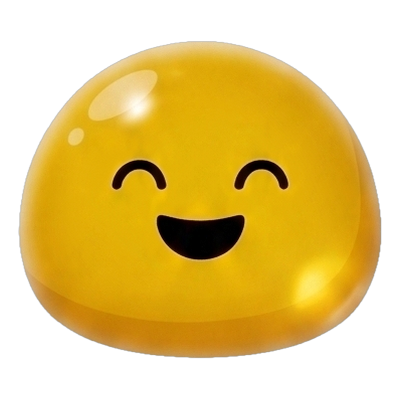
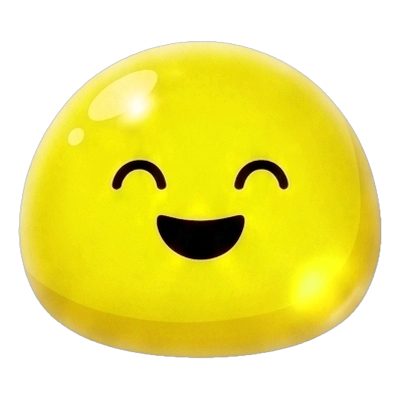
feat(discovery): 기분 자판기 5기준 슬롯 + 영혼의 단짝 + 좋았어요 옐로우골드 + 의자 아이콘
- 기분 자판기: [분석 기준]+[나의 기록]=[기분] 슬롯으로 개편. 버튼으로 5기준
  (요일·날씨·수면·태그·활동)을 순서대로 돌려보고, 없으면 '특별한 발견 없음' 표기.
  수면 슬롯 아이콘은 다이어리 수면 아이콘, 결과는 말랑이 얼굴로 표시
- 이번 달 기록에 '영혼의 단짝' 카드 추가: 가장 자주 함께 찍힌 태그 두 개를 찰떡궁합으로 연출
- '좋았어요' 말랑이 색상 골드 → 옐로우 골드로 리컬러(이미지 + 눈 깜빡 커버색)
- 말랑 다이어리 '오래 앉음' 아이콘을 또렷한 의자 모양으로 수정

diff --git a/src/components/MallangDiscoveryReport.jsx b/src/components/MallangDiscoveryReport.jsx
@@ -341,6 +341,7 @@ export default function MallangDiscoveryReport({ onClose, bmtiCode, userData }) 
                 return <SectionCard key={s.id} section={s} gender={userData?.kakao_gender || userData?.kakaoGender} entries={entries} topMood={topMood} moments={s.id === "sore_map" ? find("sore_moments")?.data : null} />;
               });
             })()}
+            <SoulmateCard entries={entries} />
           </div>
         ) : (
           <DiscoveryInsights report={report} entries={entries} userData={userData} nickname={userData?.nickname} bmtiCode={bmtiCode} />
@@ -1025,6 +1026,40 @@ function ActivityTrackCard({ topMood, move, rest, over }) {
   );
 }
 
+// ── 영혼의 단짝: 이번 달 가장 자주 함께 찍힌 태그 두 개(찰떡궁합) ──
+const SOULMATE_WIT = { "스트레스|카페인": "스트레스받을 때마다 커피를 찾으셨군요 🧐", "야식·과식|음주": "한잔하면 야식이 빠질 수 없죠 🍻", "긴장함|카페인": "긴장될 땐 커피 한 모금으로 버티셨네요 ☕" };
+function SoulmateCard({ entries }) {
+  const t = getTypeAccent();
+  const pc = {};
+  (entries || []).forEach(e => { const tags = [...new Set((e.tags || []).filter(x => TAG_ICON[x]))]; for (let i = 0; i < tags.length; i++) for (let j = i + 1; j < tags.length; j++) { const k = [tags[i], tags[j]].sort().join("|"); pc[k] = (pc[k] || 0) + 1; } });
+  const top = Object.entries(pc).sort((a, b) => b[1] - a[1])[0];
+  if (!top || top[1] < 2) return null;
+  const [a, b] = top[0].split("|"); const n = top[1];
+  const wit = SOULMATE_WIT[top[0]] || `이 둘이 만난 날이 무려 ${n}일이나 되네요. 서로 꼭 붙어다니는 단짝이었어요 🤝`;
+  const badge = (name) => (
+    <div style={{ display: "flex", flexDirection: "column", alignItems: "center", gap: 5, animation: "soulmateBob 2.2s ease-in-out infinite" }}>
+      <span style={{ width: 58, height: 58, borderRadius: "50%", background: t.accentSoft, display: "flex", alignItems: "center", justifyContent: "center", boxShadow: "0 2px 8px rgba(0,0,0,0.1)" }}><DiaryIcon name={TAG_ICON[name]} size={32} /></span>
+      <span style={{ fontSize: 11.5, fontWeight: 800, color: C.ink }}>{name}</span>
+    </div>
+  );
+  return (
+    <div style={{ background: C.card, borderRadius: 20, padding: "18px 18px 20px", boxShadow: CARD_SHADOW, border: "1px solid #F1EEE8" }}>
+      <div style={{ display: "flex", alignItems: "center", gap: 10, marginBottom: 14 }}>
+        <span style={{ width: 32, height: 32, borderRadius: 10, flexShrink: 0, display: "flex", alignItems: "center", justifyContent: "center", background: t.accentSoft, fontSize: 16 }}>💞</span>
+        <span style={{ fontSize: 16, fontWeight: 800, letterSpacing: "-0.01em", color: C.ink }}>영혼의 단짝</span>
+      </div>
+      <div style={{ display: "flex", alignItems: "center", justifyContent: "center", gap: 6, padding: "4px 0 10px" }}>
+        {badge(a)}
+        <span style={{ fontSize: 20, animation: "soulmateHeart 1.4s ease-in-out infinite" }}>💞</span>
+        {badge(b)}
+      </div>
+      <p style={{ fontSize: 14, fontWeight: 800, color: C.ink, textAlign: "center", margin: "0 0 6px", wordBreak: "keep-all" }}>이번 달, <b style={{ color: t.accentDeep }}>[{a}]</b>와 <b style={{ color: t.accentDeep }}>[{b}]</b>은 찰떡궁합 영혼의 단짝이었어요!</p>
+      <p style={{ fontSize: 12.5, color: C.sub, fontWeight: 600, textAlign: "center", margin: 0, lineHeight: 1.55, wordBreak: "keep-all" }}>{wit}</p>
+      <style>{`@keyframes soulmateBob{0%,100%{transform:translateY(0)}50%{transform:translateY(-4px)}}@keyframes soulmateHeart{0%,100%{transform:scale(1)}50%{transform:scale(1.25)}}`}</style>
+    </div>
+  );
+}
+
 function SectionCard({ section: s, gender, entries, topMood, moments }) {
   const Icon = SECTION_ICON[s.id];
   const t = getTypeAccent();
@@ -1494,16 +1529,48 @@ function computeInsights(entries, userData, report) {
   const wd = (ds) => new Date(ds + "T00:00:00").getDay();
 
   // ── 1. 기분 연결고리 (슬롯) ──
-  const link = (() => {
-    const exDays = days.filter(d => d.exercise?.did === true);
-    if (exDays.length >= 4) { const r = exDays.filter(d => d.mood >= 4).length / exDays.length; if (r >= 0.6) return { slots: ["🏃 운동한 날", "몸을 움직이면", "😊 좋았어요"], message: `몸을 움직인 날의 ${Math.round(r * 100)}%는 '좋았어요·괜찮았어요' 기분으로 마무리했어요! 움직임이 확실한 기분 전환이 되었네요.` }; }
-    const wdTired = {}; days.forEach(d => { if (d.mood <= 2) wdTired[wd(d.date)] = (wdTired[wd(d.date)] || 0) + 1; });
-    const tw = topOf(wdTired); if (tw && tw.n >= 2) return { slots: [`📅 ${WD_FULL[tw.key]}요일`, "저녁이 되면", "😩 지쳤어요"], message: `이번 달은 ${WD_FULL[tw.key]}요일에 가장 많이 '지쳤어요'를 선택했네요. ${WD_FULL[tw.key]}요일엔 유독 더 맛있는 음식으로 스스로를 위로해 볼까요?` };
-    const wDays = days.filter(d => d.weather && typeof d.weather.code === "number");
-    if (wDays.length >= 4) { const rain = wDays.filter(d => (d.weather.precip != null && d.weather.precip >= 1) || RAIN_CODES2.has(d.weather.code)); if (rain.length >= 3) { const r = rain.filter(d => d.mood <= 3).length / rain.length; if (r >= 0.6) return { slots: ["🌧 비 오는 날", "하늘이 흐리면", "😐 그냥저냥 이하"], message: `비가 오는 날의 ${Math.round(r * 100)}%는 기분이 '그냥저냥' 이하로 떨어졌어요. 맑은 날을 더 알차게 즐겨봐요!` }; } }
-    const nights = days.filter(d => (d.tags || []).includes("야식·과식") || d.sleepTime === "1시" || d.sleepTime === "2시 이후");
-    if (nights.length >= 3) { const r = nights.map(d => nextOf(d.date)).filter(nx => nx && nx.mood <= 3).length / nights.length; if (r >= 0.55) return { slots: ["🍜 야식·늦잠", "그 다음 날엔", "😐 그냥저냥 이하"], message: `야식·과식 태그를 남기거나 밤 12시 이후에 잠든 날엔 다음 날 여지없이 기분이 '그냥저냥' 이하로 떨어졌어요.` }; }
-    return null;
+  // 5가지 분석 기준(요일·날씨·수면·태그·활동)별로 [상세 기록]→[기분] 슬롯 인사이트
+  const domMood = (arr) => { const c = {}; arr.forEach(d => { c[d.mood] = (c[d.mood] || 0) + 1; }); const t = topOf(c); return t ? { mood: Number(t.key), n: t.n, ratio: t.n / arr.length } : null; };
+  const slots = (() => {
+    const out = [];
+    // 요일
+    out.push((() => {
+      let best = null;
+      for (let w = 0; w < 7; w++) { const dd = days.filter(d => wd(d.date) === w); if (dd.length < 2) continue; const dm = domMood(dd); if (dm && dm.ratio >= 0.5 && (!best || dm.n * dm.ratio > best.score)) best = { w, ...dm, score: dm.n * dm.ratio }; }
+      return best ? { key: "weekday", emoji: "📆", label: "요일", detail: `${WD_FULL[best.w]}요일`, moodV: best.mood, message: `이번 달 ${WD_FULL[best.w]}요일엔 ${Math.round(best.ratio * 100)}% '${MOOD[best.mood]}'가 나왔어요. 요일마다 나만의 리듬이 있네요!` } : { key: "weekday", emoji: "📆", label: "요일", message: "이번 달 요일 슬롯에선 특별한 발견이 없었어요." };
+    })());
+    // 날씨
+    out.push((() => {
+      const wDays = days.filter(d => d.weather && typeof d.weather.code === "number");
+      const rain = wDays.filter(d => (d.weather.precip != null && d.weather.precip >= 1) || RAIN_CODES2.has(d.weather.code));
+      if (rain.length >= 3) { const dm = domMood(rain); if (dm && dm.ratio >= 0.5) return { key: "weather", emoji: "🌤", label: "날씨", detail: "비 오는 날", moodV: dm.mood, message: `비가 오는 날의 ${Math.round(dm.ratio * 100)}%는 기분이 '${MOOD[dm.mood]}'였어요. 궂은 날일수록 스스로를 더 챙겨봐요!` }; }
+      return { key: "weather", emoji: "🌤", label: "날씨", message: "이번 달 날씨 슬롯에선 특별한 발견이 없었어요." };
+    })());
+    // 수면
+    out.push((() => {
+      let best = null;
+      for (let lv = 0; lv <= 3; lv++) { const dd = days.filter(d => d.sleep === lv); if (dd.length < 2) continue; const dm = domMood(dd); if (dm && dm.ratio >= 0.5 && (!best || dm.n * dm.ratio > best.score)) best = { lv, ...dm, score: dm.n * dm.ratio }; }
+      return best ? { key: "sleep", emoji: "🛌", label: "수면", detail: SLEEP[best.lv], detailIcon: SLEEP_ICON[best.lv], moodV: best.mood, message: `이번 달 수면 슬롯이 '${SLEEP[best.lv]}'에 멈춘 날, 기분 슬롯은 ${Math.round(best.ratio * 100)}% '${MOOD[best.mood]}'가 나왔어요. 역시 잠이 최고의 보약이네요!` } : { key: "sleep", emoji: "🛌", label: "수면", message: "이번 달 수면 슬롯에선 특별한 발견이 없었어요." };
+    })());
+    // 태그
+    out.push((() => {
+      const tagDays = {}; days.forEach(d => (d.tags || []).forEach(tg => { if (TAG_ICON[tg]) (tagDays[tg] ||= []).push(d); }));
+      let best = null;
+      for (const [tg, dd] of Object.entries(tagDays)) { if (dd.length < 3) continue; const dm = domMood(dd); if (dm && dm.ratio >= 0.5 && (!best || dm.n * dm.ratio > best.score)) best = { tg, ...dm, score: dm.n * dm.ratio }; }
+      return best ? { key: "tag", emoji: "🏷", label: "태그", detail: best.tg, detailIcon: TAG_ICON[best.tg], moodV: best.mood, message: `#${best.tg}를 남긴 날엔 ${Math.round(best.ratio * 100)}% 기분이 '${MOOD[best.mood]}'였어요.` } : { key: "tag", emoji: "🏷", label: "태그", message: "이번 달 태그 슬롯에선 특별한 발견이 없었어요." };
+    })());
+    // 활동
+    out.push((() => {
+      const cands = [
+        { detail: "운동한 날", dd: days.filter(d => d.exercise?.did === true) },
+        { detail: "무리한 날", dd: days.filter(d => d.overwork?.yes) },
+        { detail: "쉬어간 날", dd: days.filter(d => d.exercise?.did === false) },
+      ];
+      let best = null;
+      for (const c of cands) { if (c.dd.length < 2) continue; const dm = domMood(c.dd); if (dm && dm.ratio >= 0.5 && (!best || dm.n * dm.ratio > best.score)) best = { detail: c.detail, ...dm, score: dm.n * dm.ratio }; }
+      return best ? { key: "activity", emoji: "🏃", label: "활동", detail: best.detail, moodV: best.mood, message: `${best.detail}의 ${Math.round(best.ratio * 100)}%는 '${MOOD[best.mood]}' 기분이었어요!` } : { key: "activity", emoji: "🏃", label: "활동", message: "이번 달 활동 슬롯에선 특별한 발견이 없었어요." };
+    })());
+    return out;
   })();
 
   // ── 2. 수면 나비효과 ──
@@ -1608,7 +1675,7 @@ function computeInsights(entries, userData, report) {
     return { nickname: nm, body: parts.join(" ") };
   })();
 
-  return { link, butterfly, effort, logged, recovery, streak, factcheck, letter, recordedDays: days.length };
+  return { slots, butterfly, effort, logged, recovery, streak, factcheck, letter, recordedDays: days.length };
 }
 
 // ── 인사이트 카드 공통 껍데기 ──
@@ -1634,7 +1701,7 @@ function DiscoveryInsights({ report, entries, userData, nickname, bmtiCode }) {
   }
   return (
     <div style={{ display: "flex", flexDirection: "column", gap: 16 }}>
-      {ins.link && <SlotCard link={ins.link} />}
+      {ins.slots && <SlotCard slots={ins.slots} />}
       {ins.butterfly && <ButterflyCard data={ins.butterfly} />}
       {ins.recovery && <RecoveryCard data={ins.recovery} />}
       {ins.streak && <StreakCard data={ins.streak} />}
@@ -1647,21 +1714,58 @@ function DiscoveryInsights({ report, entries, userData, nickname, bmtiCode }) {
 }
 
 // 1. 기분 자판기(슬롯)
-function SlotCard({ link }) {
+function SlotCard({ slots }) {
+  const [idx, setIdx] = useState(0);
+  const cur = slots[idx];
+  const found = !!cur.detail;
+  const t = getTypeAccent();
+  // 슬롯 3칸: [분석 기준] + [나의 기록] = [기분]
+  const box = { flex: 1, minWidth: 0, position: "relative" };
+  const win = { height: 66, borderRadius: 12, background: "linear-gradient(180deg,#FFFDF6,#F4EFE2)", border: "1.5px solid #EAE2CF", display: "flex", flexDirection: "column", alignItems: "center", justifyContent: "center", textAlign: "center", padding: "4px 5px", boxShadow: "inset 0 6px 10px -8px rgba(0,0,0,0.2)", overflow: "hidden" };
+  const conn = (sym) => <span style={{ position: "absolute", right: -6, top: "50%", transform: "translateY(-50%)", fontSize: 12, fontWeight: 900, color: C.sub, zIndex: 1 }}>{sym}</span>;
   return (
-    <InsCard badge="기분 연결고리" title="기분 자판기" sub="어떤 하루가 어떤 기분을 불러왔을까요?">
-      <div style={{ display: "flex", gap: 6, alignItems: "stretch" }}>
-        {link.slots.map((s, i) => (
-          <div key={i} style={{ flex: 1, minWidth: 0, position: "relative" }}>
-            <div style={{ height: 62, borderRadius: 12, background: "linear-gradient(180deg,#FFFDF6,#F4EFE2)", border: "1.5px solid #EAE2CF", display: "flex", alignItems: "center", justifyContent: "center", textAlign: "center", padding: "4px 5px", boxShadow: "inset 0 6px 10px -8px rgba(0,0,0,0.2)", overflow: "hidden" }}>
-              <span style={{ fontSize: 11.5, fontWeight: 800, color: C.ink, lineHeight: 1.25, wordBreak: "keep-all", animation: `slotSpin .6s cubic-bezier(.2,.7,.3,1) ${i * 0.15}s both` }}>{s}</span>
-            </div>
-            {i < link.slots.length - 1 && <span style={{ position: "absolute", right: -6, top: "50%", transform: "translateY(-50%)", fontSize: 12, fontWeight: 900, color: C.sub, zIndex: 1 }}>{i === link.slots.length - 2 ? "=" : "+"}</span>}
+    <InsCard badge="기분 연결고리" title="기분 자판기" sub="버튼을 눌러 5가지 기준을 하나씩 돌려보세요">
+      <div key={idx} style={{ display: "flex", gap: 6, alignItems: "stretch" }}>
+        {/* 1. 분석 기준 */}
+        <div style={box}>
+          <div style={{ ...win, animation: "slotSpin .5s cubic-bezier(.2,.7,.3,1) both" }}>
+            <span style={{ fontSize: 20 }}>{cur.emoji}</span>
+            <span style={{ fontSize: 10.5, fontWeight: 800, color: C.ink, marginTop: 1 }}>{cur.label}</span>
           </div>
-        ))}
+          {conn("+")}
+        </div>
+        {/* 2. 나의 기록 */}
+        <div style={box}>
+          <div style={{ ...win, animation: "slotSpin .5s cubic-bezier(.2,.7,.3,1) .12s both" }}>
+            {found ? <>
+              {cur.detailIcon ? <DiaryIcon name={cur.detailIcon} size={22} /> : <span style={{ fontSize: 18 }}>📝</span>}
+              <span style={{ fontSize: 10, fontWeight: 800, color: C.ink, marginTop: 2, lineHeight: 1.15, wordBreak: "keep-all" }}>{cur.detail}</span>
+            </> : <span style={{ fontSize: 24, fontWeight: 900, color: "#C9C4BB" }}>?</span>}
+          </div>
+          {conn("=")}
+        </div>
+        {/* 3. 기분 */}
+        <div style={box}>
+          <div style={{ ...win, animation: "slotSpin .5s cubic-bezier(.2,.7,.3,1) .24s both" }}>
+            {found ? <>
+              <Mallang v={cur.moodV} size={34} />
+              <span style={{ fontSize: 9.5, fontWeight: 800, color: C.ink, marginTop: 1 }}>{MOOD[cur.moodV]}</span>
+            </> : <span style={{ fontSize: 24, fontWeight: 900, color: "#C9C4BB" }}>?</span>}
+          </div>
+        </div>
       </div>
-      <Insight>{link.message}</Insight>
-      <style>{`@keyframes slotSpin{0%{opacity:0;transform:translateY(-16px) scale(.9)}100%{opacity:1;transform:translateY(0) scale(1)}}`}</style>
+
+      {/* 돌리기 버튼 + 진행 표시 */}
+      <button onClick={() => setIdx((idx + 1) % slots.length)}
+        style={{ width: "100%", marginTop: 12, padding: "10px", borderRadius: 12, border: "none", background: t.accentSoft, color: t.accentDeep, fontSize: 13, fontWeight: 800, cursor: "pointer", display: "flex", alignItems: "center", justifyContent: "center", gap: 6 }}>
+        🎰 다음 기준 돌리기 <span style={{ fontSize: 11, fontWeight: 700, opacity: 0.7 }}>{idx + 1}/{slots.length}</span>
+      </button>
+      <div style={{ display: "flex", justifyContent: "center", gap: 5, marginTop: 8 }}>
+        {slots.map((s, i) => <span key={i} style={{ width: i === idx ? 16 : 6, height: 6, borderRadius: 4, background: i === idx ? t.accent : "#E5E0D6", transition: "all .2s" }} />)}
+      </div>
+
+      <Insight>{cur.message}</Insight>
+      <style>{`@keyframes slotSpin{0%{opacity:0;transform:translateY(-18px)}60%{transform:translateY(3px)}100%{opacity:1;transform:translateY(0)}}`}</style>
     </InsCard>
   );
 }

diff --git a/src/components/DiaryIcons.jsx b/src/components/DiaryIcons.jsx
@@ -14,11 +14,15 @@ function IconWalk({ size = 28 }) {
 function IconChair({ size = 28 }) {
   return (
     <svg width={size} height={size} viewBox="0 0 32 32" fill="none">
-      <rect x="9" y="4" width="14" height="4" rx="2" fill="#B58956" />
-      <rect x="9" y="8" width="4" height="14" rx="2" fill="#B58956" />
-      <rect x="9" y="20" width="14" height="4" rx="2" fill="#8A5A3B" />
-      <rect x="10" y="24" width="3" height="6" rx="1.3" fill="#5B4636" />
-      <rect x="19" y="24" width="3" height="6" rx="1.3" fill="#5B4636" />
+      {/* 등받이 */}
+      <rect x="8" y="4" width="16" height="15" rx="3.5" fill="#B58956" />
+      {/* 등받이 쿠션 */}
+      <rect x="10.5" y="6.5" width="11" height="9" rx="2.2" fill="#C89A66" />
+      {/* 좌판 */}
+      <rect x="7" y="17.5" width="18" height="4" rx="2" fill="#8A5A3B" />
+      {/* 다리 */}
+      <rect x="8.6" y="21" width="3" height="8" rx="1.4" fill="#5B4636" />
+      <rect x="20.4" y="21" width="3" height="8" rx="1.4" fill="#5B4636" />
     </svg>
   );
 }

diff --git a/src/lib/mallangSkins.js b/src/lib/mallangSkins.js
@@ -41,7 +41,7 @@ export const MALLANG_EYE_RECT = {
     2: { x: 0.25, y: 0.40, w: 0.50, h: 0.11, cw: 400, ch: 400, color: "#D0C8A3" },
     3: { x: 0.25, y: 0.40, w: 0.50, h: 0.11, cw: 400, ch: 400, color: "#FFFFFF" },
     4: { x: 0.25, y: 0.40, w: 0.50, h: 0.11, cw: 400, ch: 400, color: "#D8F0D8" },
-    5: { x: 0.25, y: 0.40, w: 0.50, h: 0.11, cw: 400, ch: 400, color: "#E2B206" },
+    5: { x: 0.25, y: 0.40, w: 0.50, h: 0.11, cw: 400, ch: 400, color: "#EFC81A" },
     _color: "#FFFFFF",
   },
 };
